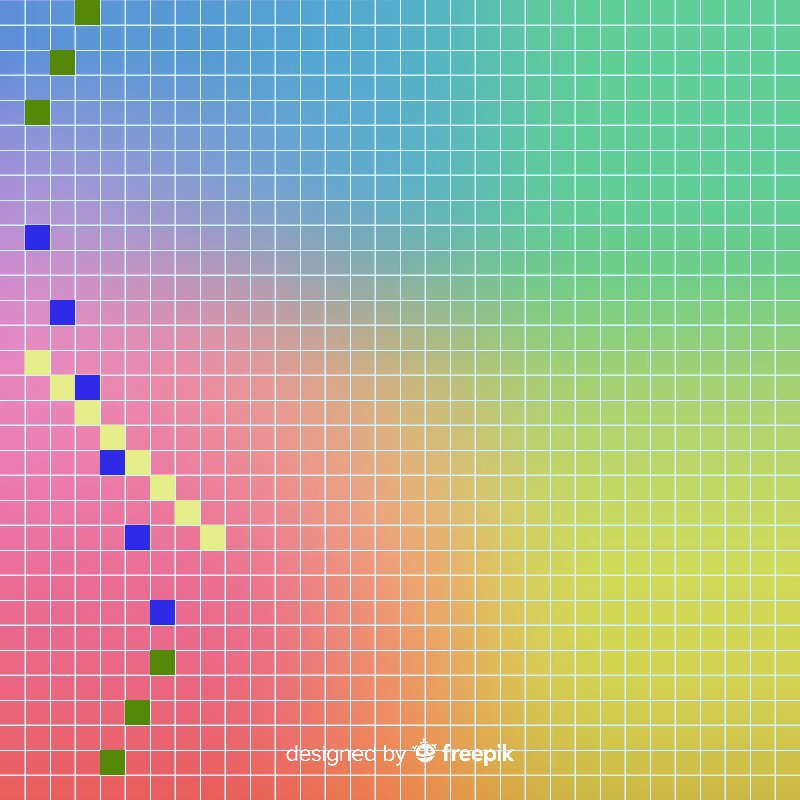
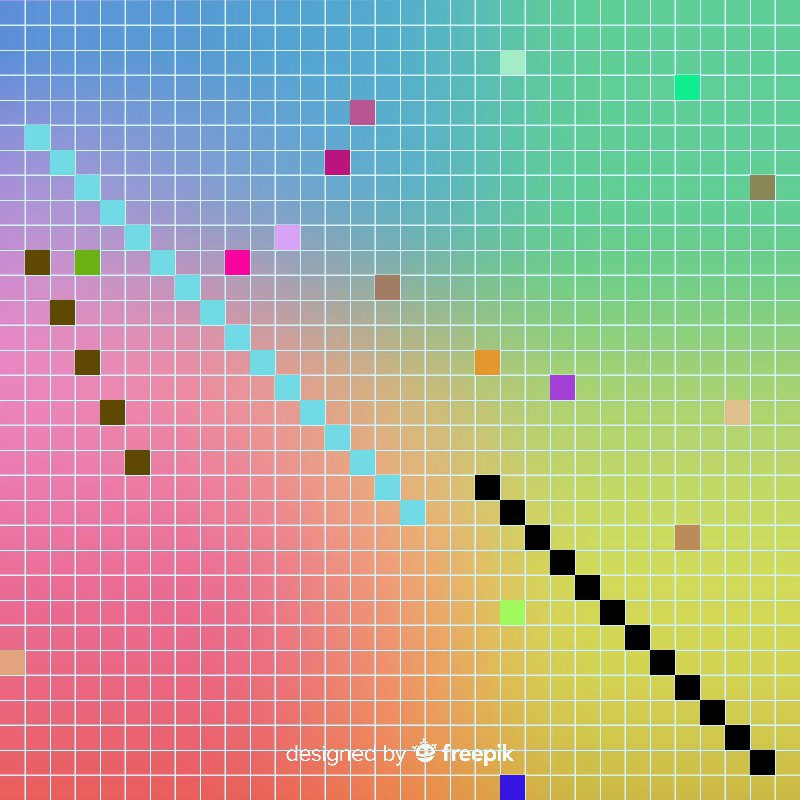
add changes

diff --git a/testLineDraw.py b/testLineDraw.py
@@ -9,12 +9,12 @@ colour = (randint(0, 255), randint(0, 255), randint(0, 255))
 
 headers = {'Content-Type': 'application/json'}
 
-response = requests.put(url + endpoint, json={'m': 1,
+response = requests.put(url + endpoint, json={'m': 2,
                                                'b': 1,
-                                               'length': 15,
+                                               'length': 4,
                                                'x_pos': 1,
                                                'colour': colour,
-                                               'y_pos': 3}, headers=headers)
+                                               'y_pos': 7}, headers=headers)
 
 # Print the response from the server
 print(response.text)

diff --git a/app.py b/app.py
@@ -195,9 +195,11 @@ def manage_display():
         game_display.blit(background, (0, 0))
         update_display(game_display, block_length)
         pygame.display.update()
-
-        # Save the current state so it can be served later
-        pygame.image.save(game_display, 'place.JPG')
+        try:
+            # Save the current state so it can be served later
+            pygame.image.save(game_display, 'place.JPG')
+        except:
+            pass
         clock.tick(30)
 
 
